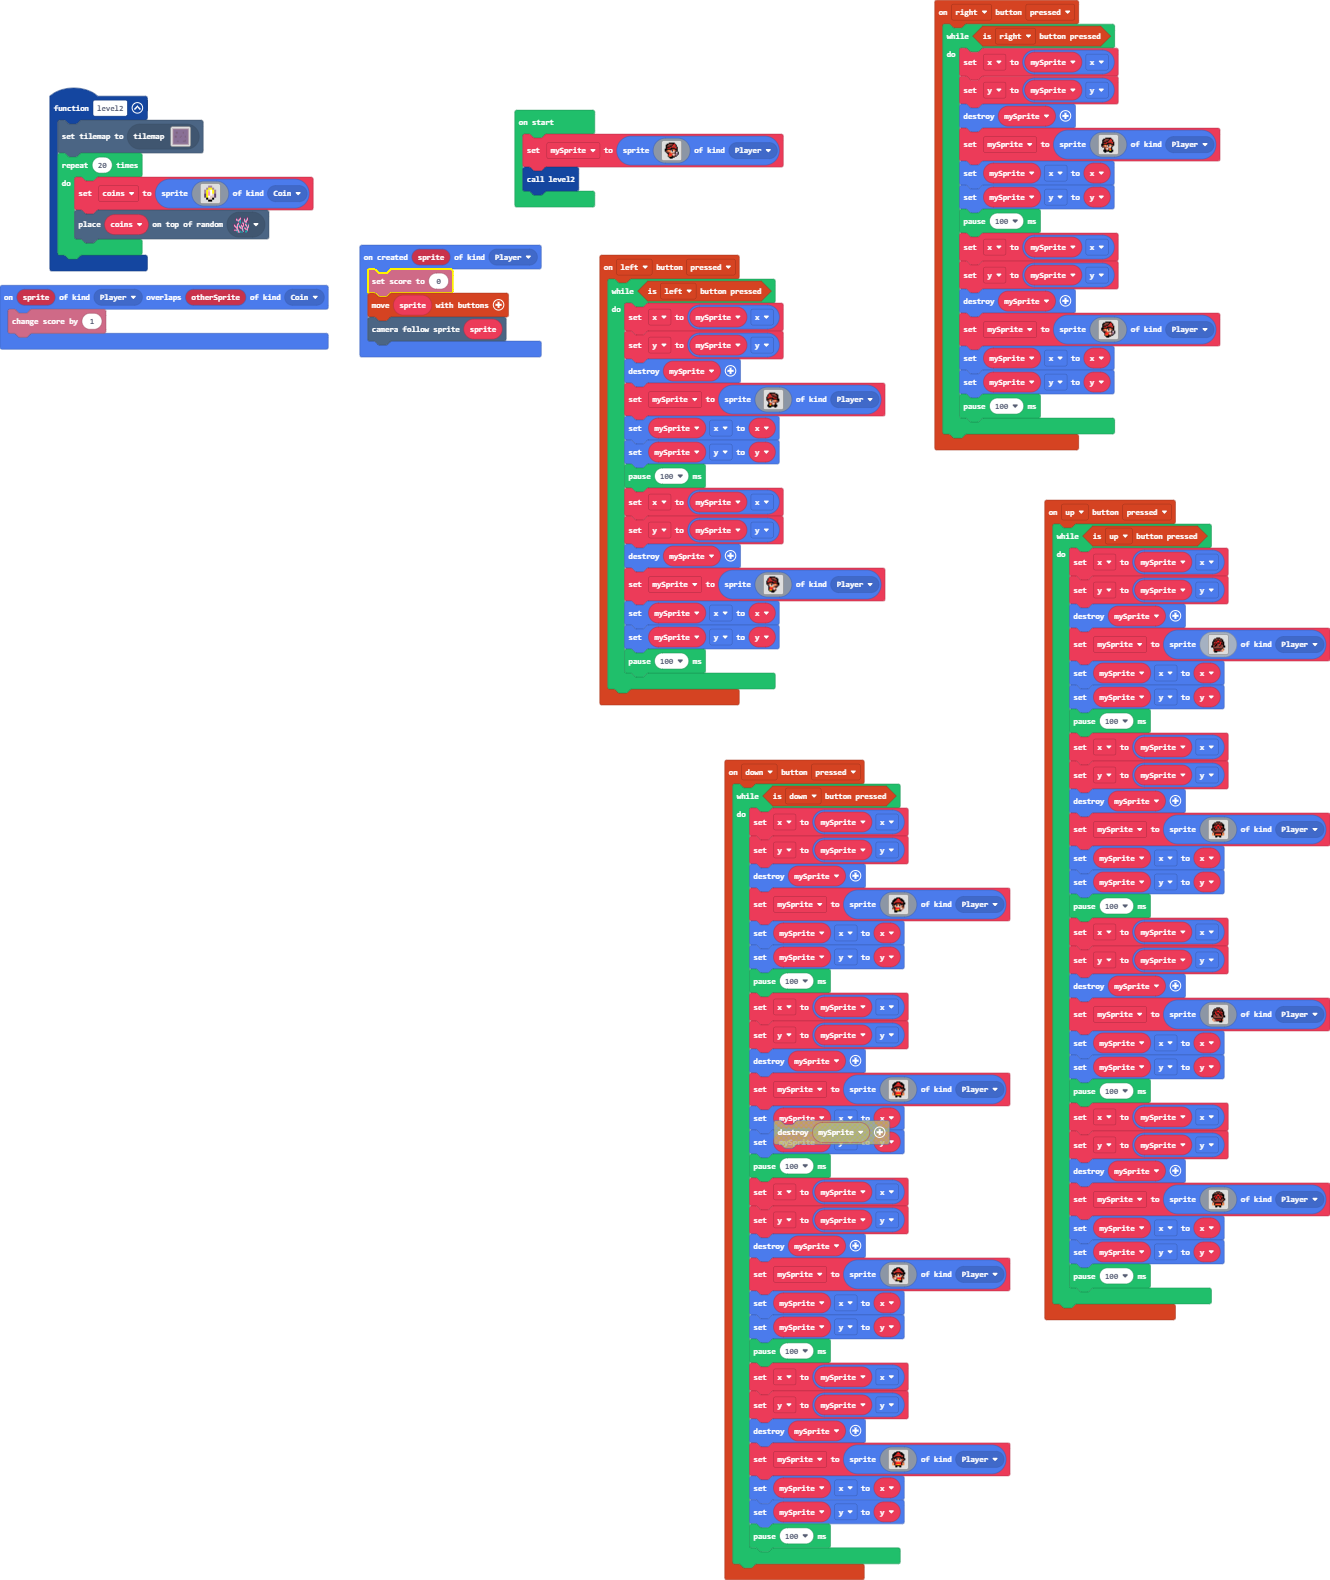
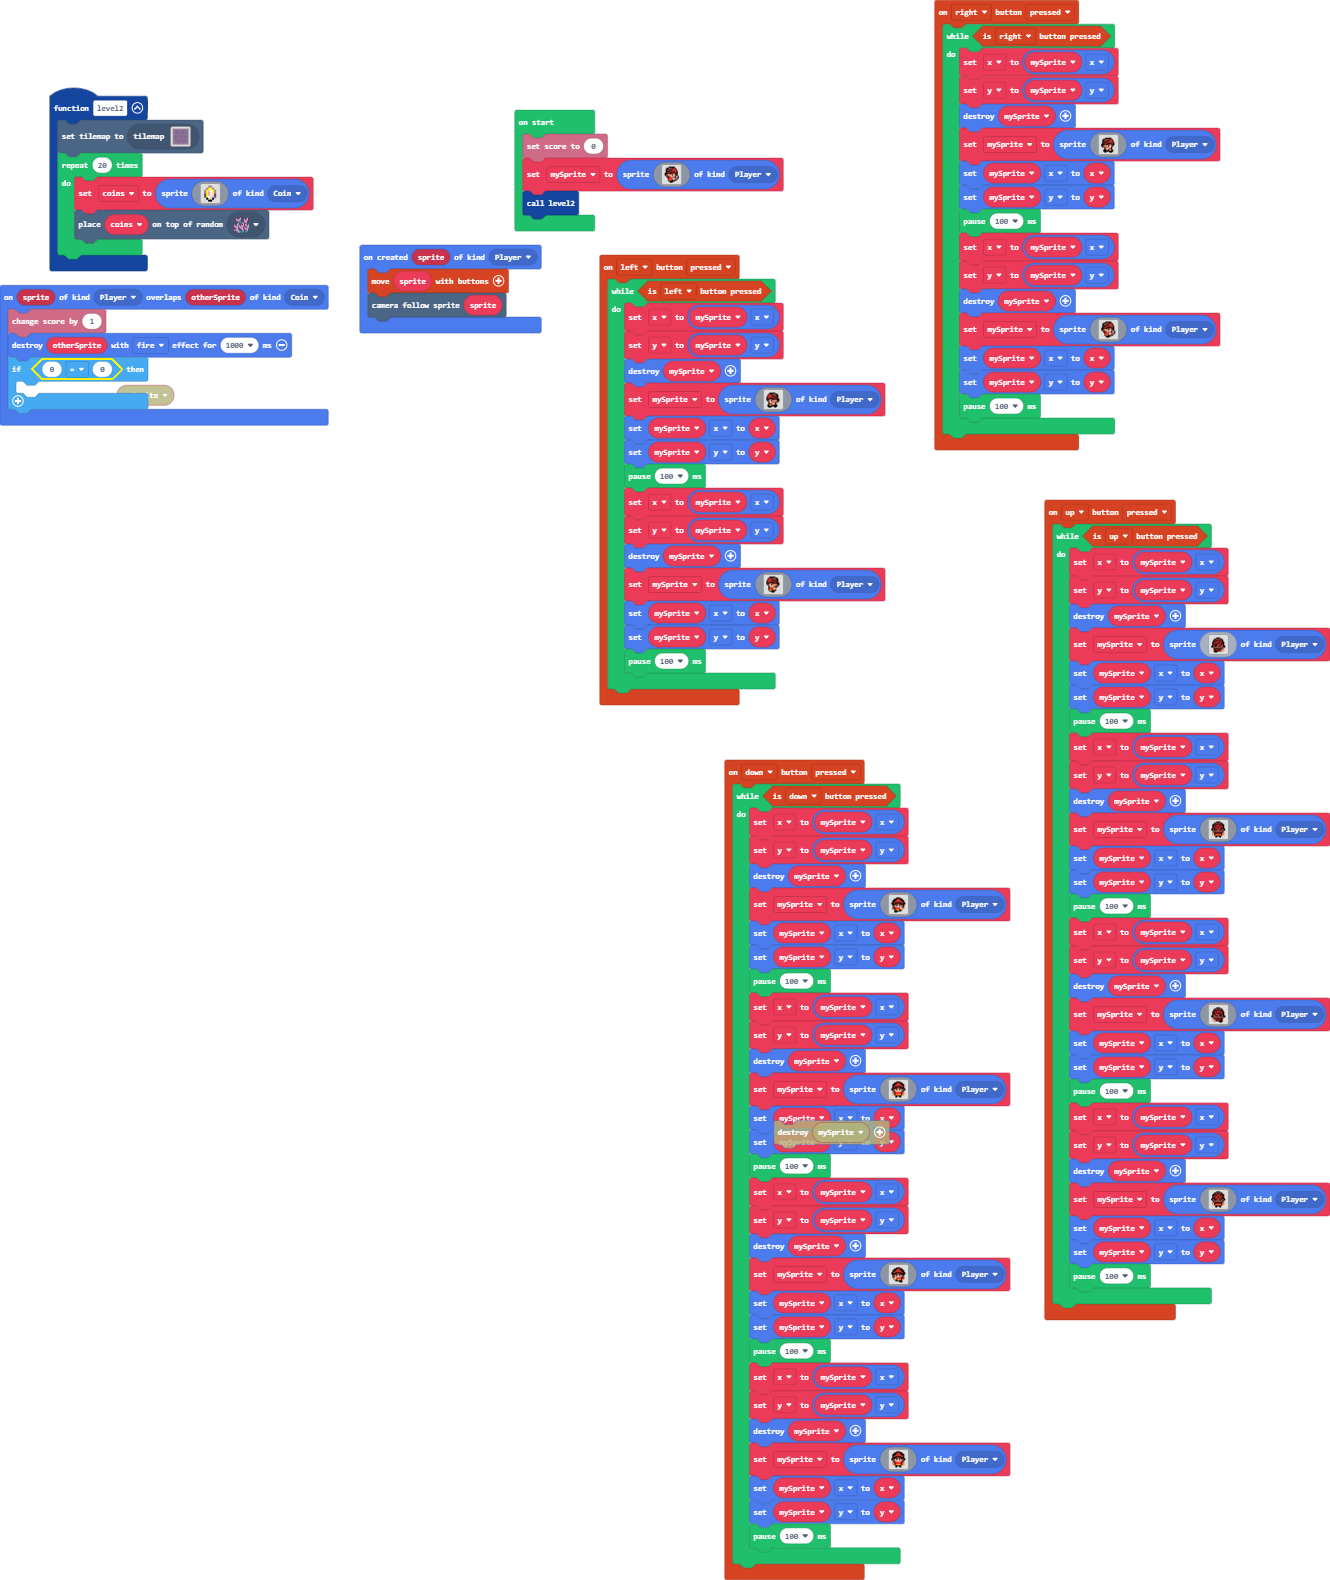
Update main.blocks, main.ts

Changed region(s): [[0.2774, 0.062, 0.5857, 0.2481], [0.0, 0.1861, 0.2466, 0.2791]]

diff --git a/main.ts b/main.ts
@@ -103,6 +103,10 @@ controller.up.onEvent(ControllerButtonEvent.Pressed, function () {
 })
 sprites.onOverlap(SpriteKind.Player, SpriteKind.Coin, function (sprite, otherSprite) {
     info.changeScoreBy(1)
+    sprites.destroy(otherSprite, effects.fire, 1000)
+    if (0 == 0) {
+    	
+    }
 })
 controller.left.onEvent(ControllerButtonEvent.Pressed, function () {
     while (controller.left.isPressed()) {
@@ -325,7 +329,6 @@ controller.down.onEvent(ControllerButtonEvent.Pressed, function () {
     }
 })
 sprites.onCreated(SpriteKind.Player, function (sprite) {
-    info.setScore(0)
     controller.moveSprite(sprite)
     scene.cameraFollowSprite(sprite)
 })
@@ -333,6 +336,7 @@ let coins: Sprite = null
 let y = 0
 let x = 0
 let mySprite: Sprite = null
+info.setScore(0)
 mySprite = sprites.create(img`
     . . . . . f f f f f f . . . . . 
     . . . f f e e e e f 2 f . . . . 
